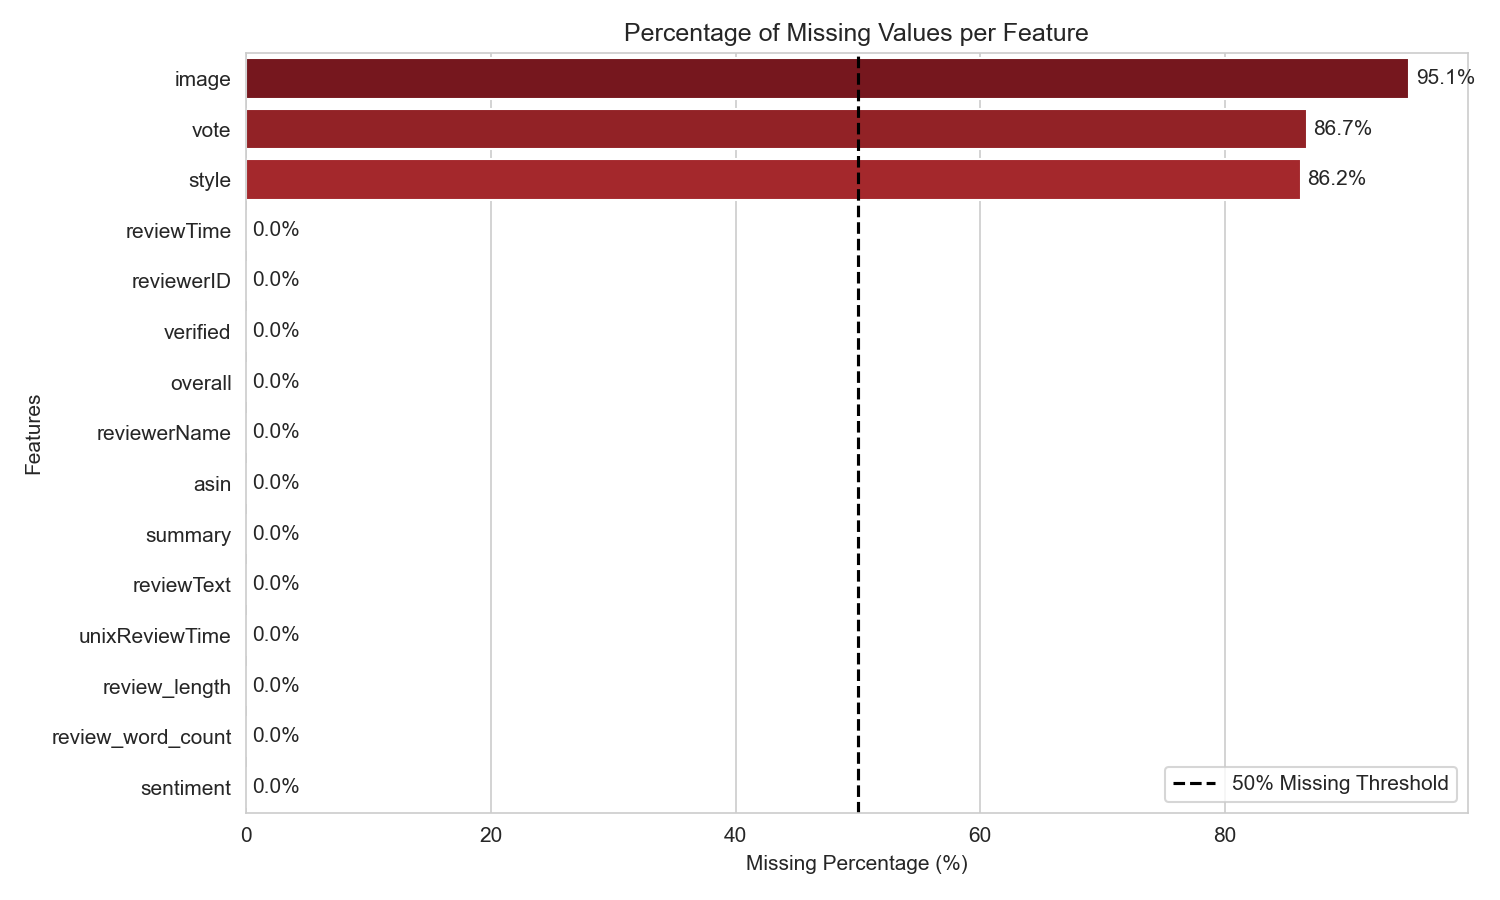
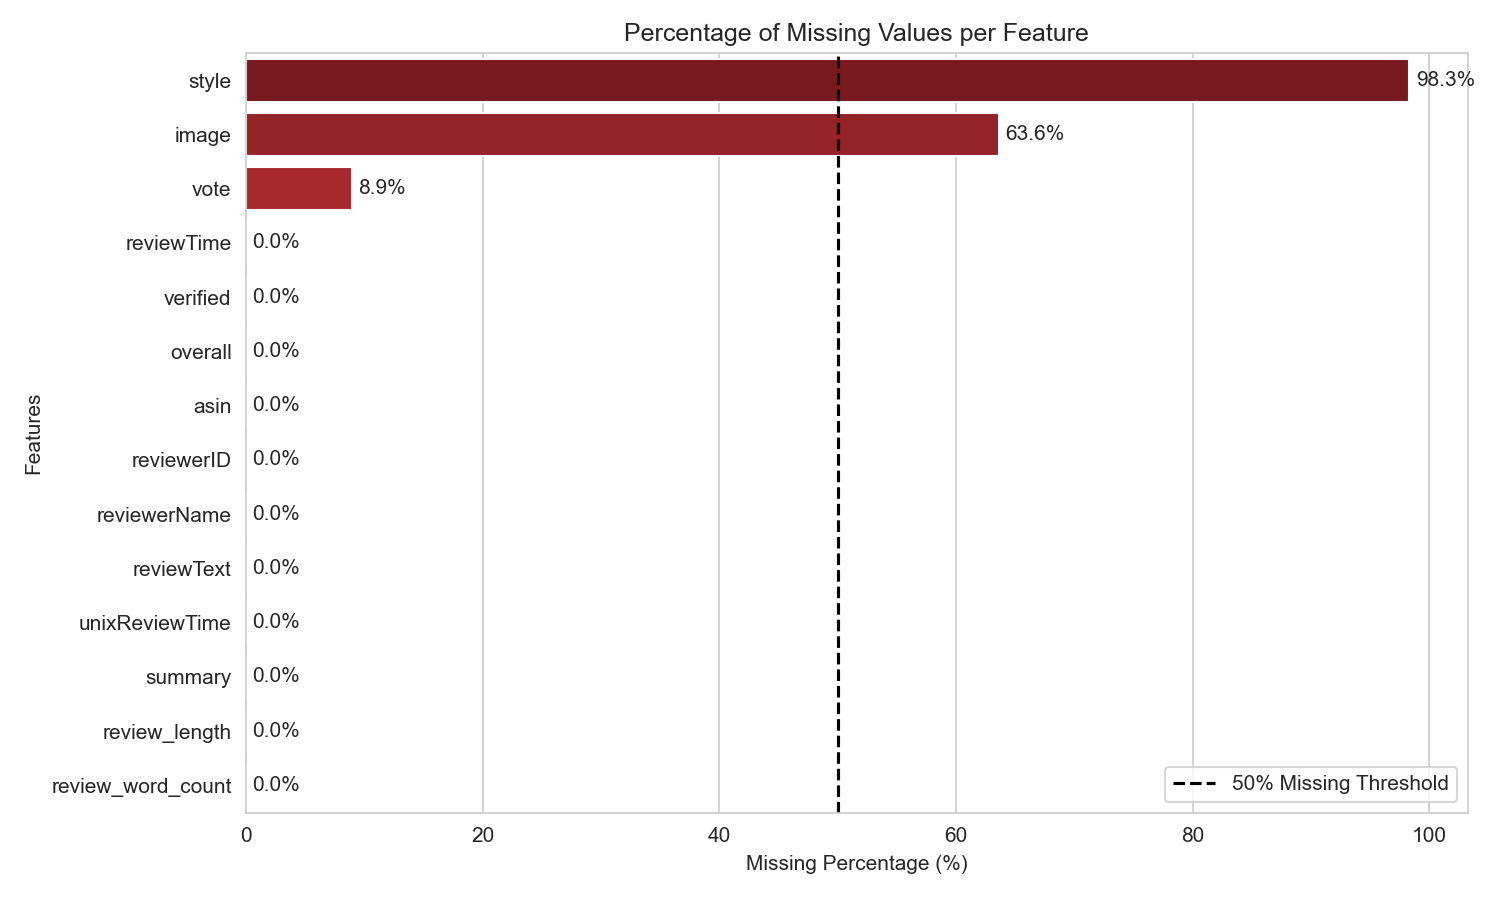
Updated 2 plots
Corrected the output path of reviwer_rating_heatmap
Updated the Missing value percentage plot

diff --git a/phase_one/main.py b/phase_one/main.py
@@ -264,7 +264,46 @@ plt.xlabel('Star Rating (Overall)', fontsize=12)
 plt.ylabel('Reviewer ID', fontsize=12)
 
 # Save the plot
-plt.savefig('reviewer_rating_heatmap.png', bbox_inches='tight')
+plt.savefig('outputs/reviewer_rating_heatmap.png', bbox_inches='tight')
+
+# %%
+# Enhancement
+# --- Statistical Justification for Column Selection ---
+
+# Calculate missing value percentages
+missing_percentages = (df.isnull().sum() / len(df)) * 100
+missing_df = missing_percentages.reset_index()
+missing_df.columns = ['Feature', 'Missing_Percentage']
+missing_df = missing_df.sort_values(by='Missing_Percentage', ascending=False)
+
+# Plot: Missing Value Percentages (with labeling)
+fig, ax = plt.subplots(figsize=(10, 6))
+sns.barplot(x='Missing_Percentage', y='Feature', data=missing_df, palette='Reds_r', ax=ax)
+ax.set_title("Percentage of Missing Values per Feature")
+ax.set_xlabel("Missing Percentage (%)")
+ax.set_ylabel("Features")
+ax.axvline(50, color='black', linestyle='--', label='50% Missing Threshold')
+
+# Add exact percentage labels to the bars
+for container in ax.containers:
+    ax.bar_label(container, fmt='%.1f%%', padding=3)
+
+plt.legend()
+plt.tight_layout()
+plt.savefig("outputs/missing_values_justification.png", dpi=150)
+plt.show()
+
+# Drop unjustified columns based on the statistics and redundancy
+columns_to_drop = [
+    'style',             # Dropped due to > 98% missing values
+    'image',             # Dropped due to > 63% missing values
+    'unixReviewTime',    # Dropped due to perfect redundancy with 'reviewTime'
+    'reviewerName'       # Dropped due to redundancy with unique 'reviewerID' 
+]
+
+df_cleaned = df.drop(columns=columns_to_drop)
+print(f"Dropped columns: {columns_to_drop}")
+print(f"Remaining columns: {df_cleaned.columns.tolist()}")
 
 # %%
 duplicate_count = df.duplicated(subset=["reviewerID", "asin", "reviewText"]).sum()
@@ -320,45 +359,6 @@ ax.bar_label(ax.containers[0], label_type="edge", padding=3)
 plt.tight_layout()
 plt.savefig("outputs/sentiment_distribution.png", dpi=150)
 plt.show()
-
-# %%
-# Enhancement
-# --- Statistical Justification for Column Selection ---
-
-# Calculate missing value percentages
-missing_percentages = (df.isnull().sum() / len(df)) * 100
-missing_df = missing_percentages.reset_index()
-missing_df.columns = ['Feature', 'Missing_Percentage']
-missing_df = missing_df.sort_values(by='Missing_Percentage', ascending=False)
-
-# Plot: Missing Value Percentages (with labeling)
-fig, ax = plt.subplots(figsize=(10, 6))
-sns.barplot(x='Missing_Percentage', y='Feature', data=missing_df, palette='Reds_r', ax=ax)
-ax.set_title("Percentage of Missing Values per Feature")
-ax.set_xlabel("Missing Percentage (%)")
-ax.set_ylabel("Features")
-ax.axvline(50, color='black', linestyle='--', label='50% Missing Threshold')
-
-# Add exact percentage labels to the bars
-for container in ax.containers:
-    ax.bar_label(container, fmt='%.1f%%', padding=3)
-
-plt.legend()
-plt.tight_layout()
-plt.savefig("outputs/missing_values_justification.png", dpi=150)
-plt.show()
-
-# Drop unjustified columns based on the statistics and redundancy
-columns_to_drop = [
-    'style',             # Dropped due to > 98% missing values
-    'image',             # Dropped due to > 63% missing values
-    'unixReviewTime',    # Dropped due to perfect redundancy with 'reviewTime'
-    'reviewerName'       # Dropped due to redundancy with unique 'reviewerID' 
-]
-
-df_cleaned = df.drop(columns=columns_to_drop)
-print(f"Dropped columns: {columns_to_drop}")
-print(f"Remaining columns: {df_cleaned.columns.tolist()}")
 
 # %% [markdown]
 # We choose 'reviewText' as the primary column for sentiment analysis because it contains the full customer opinion.  
